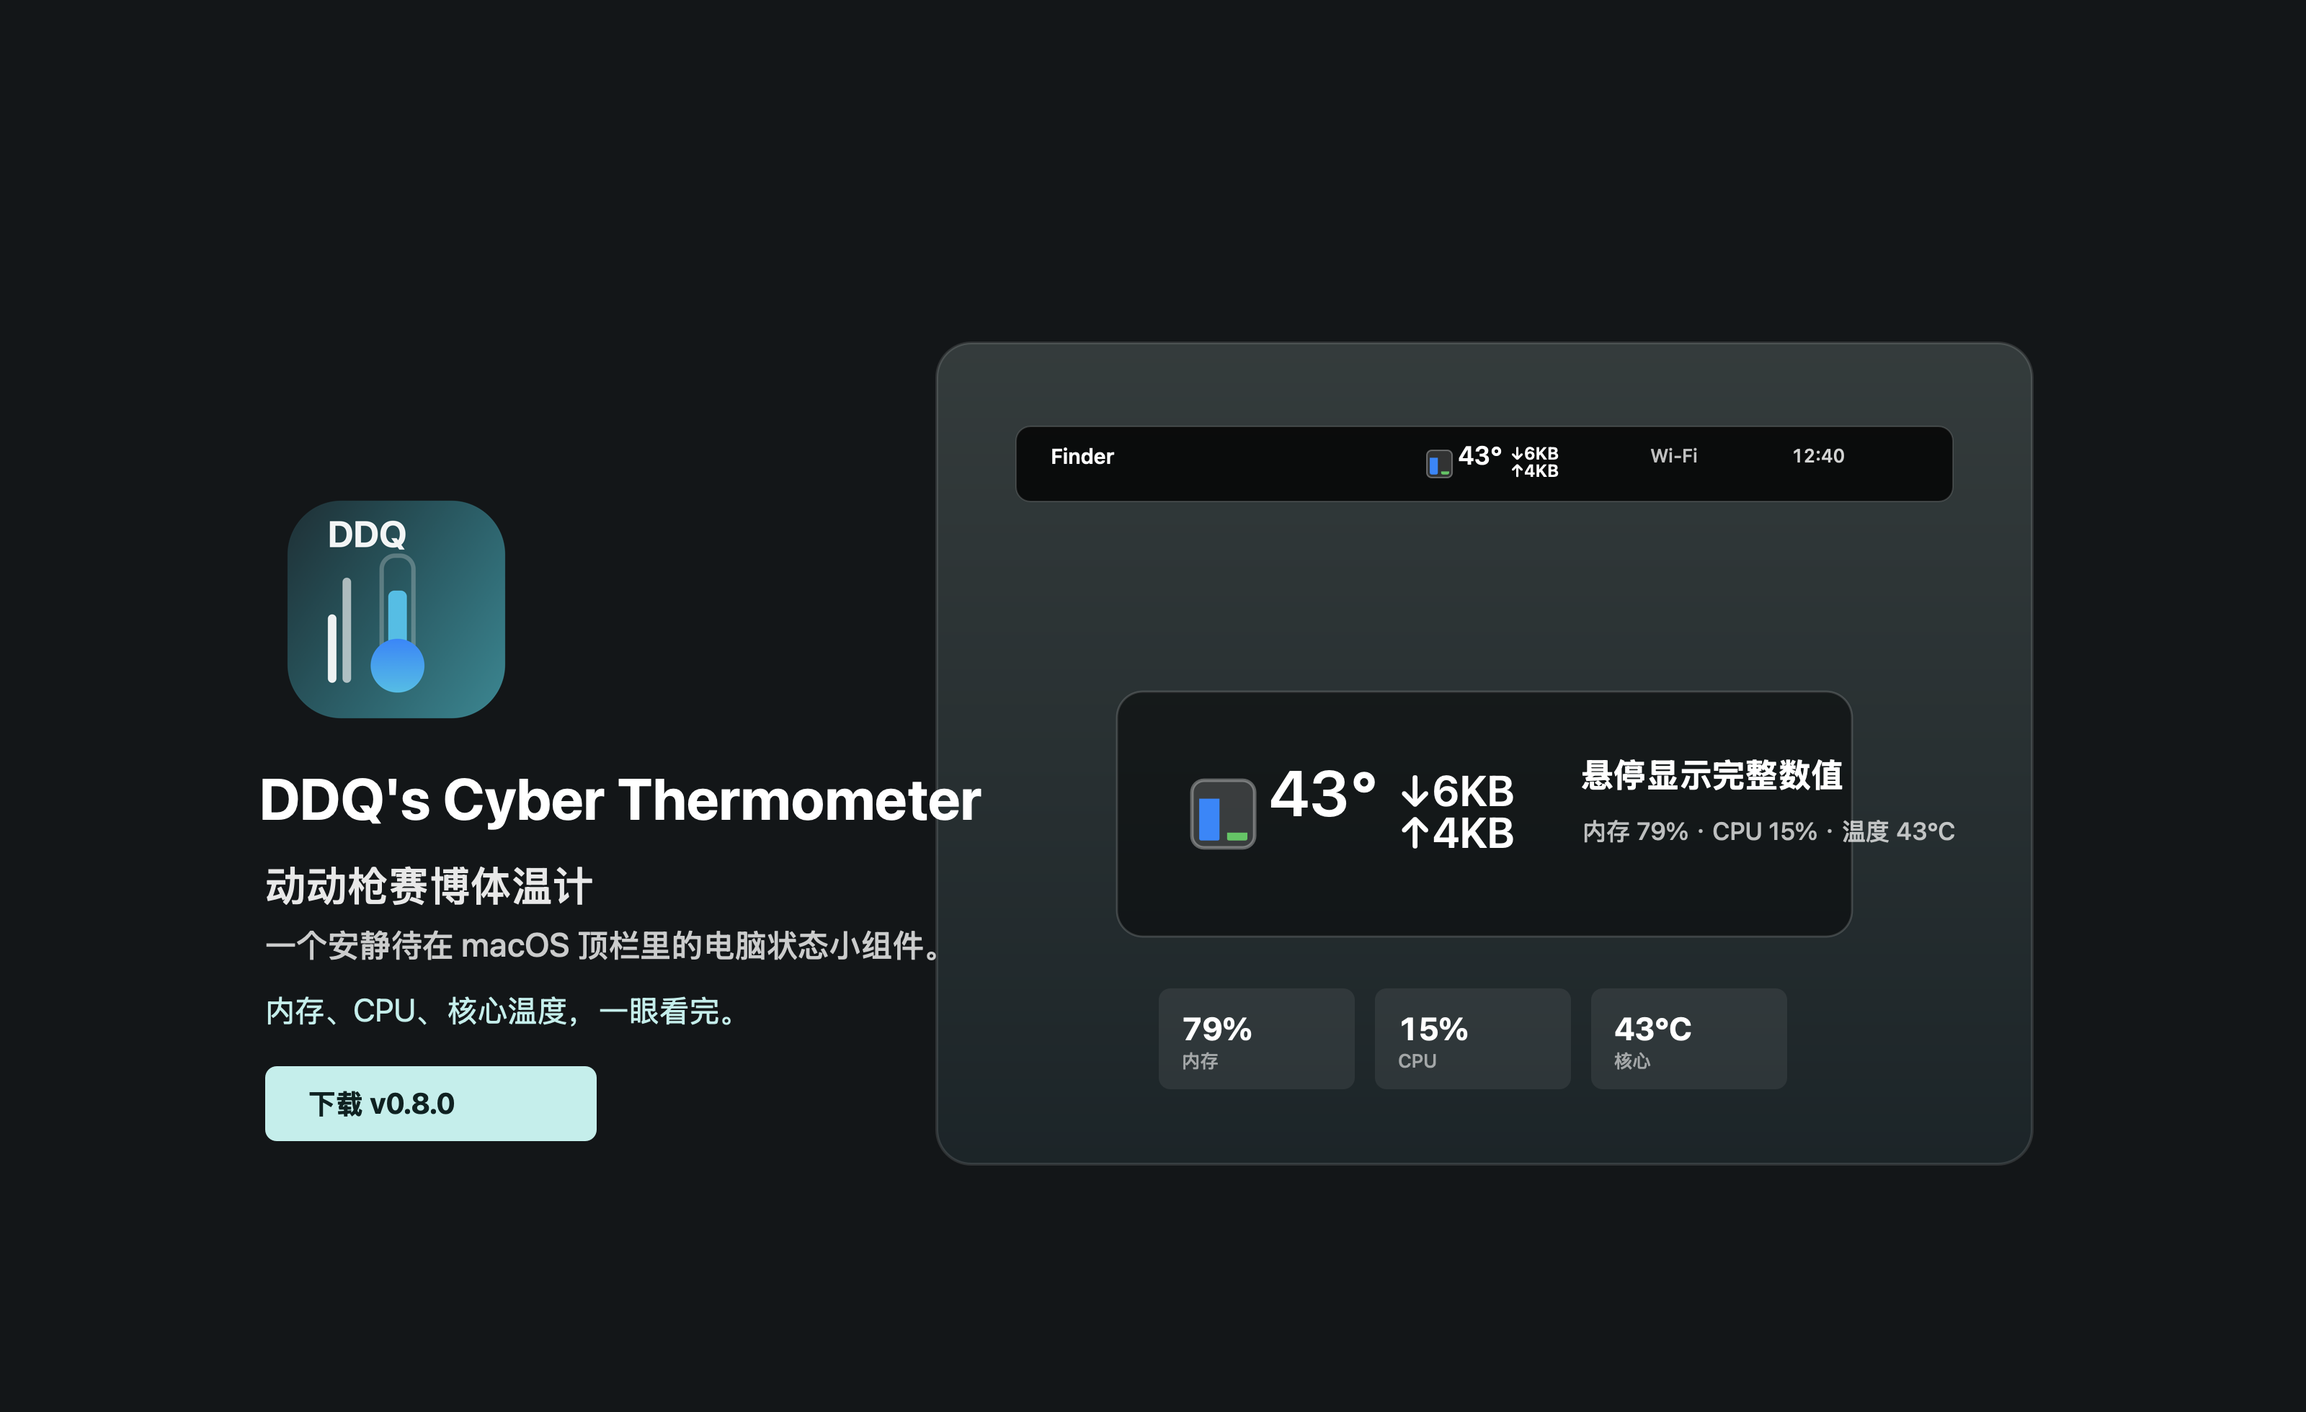
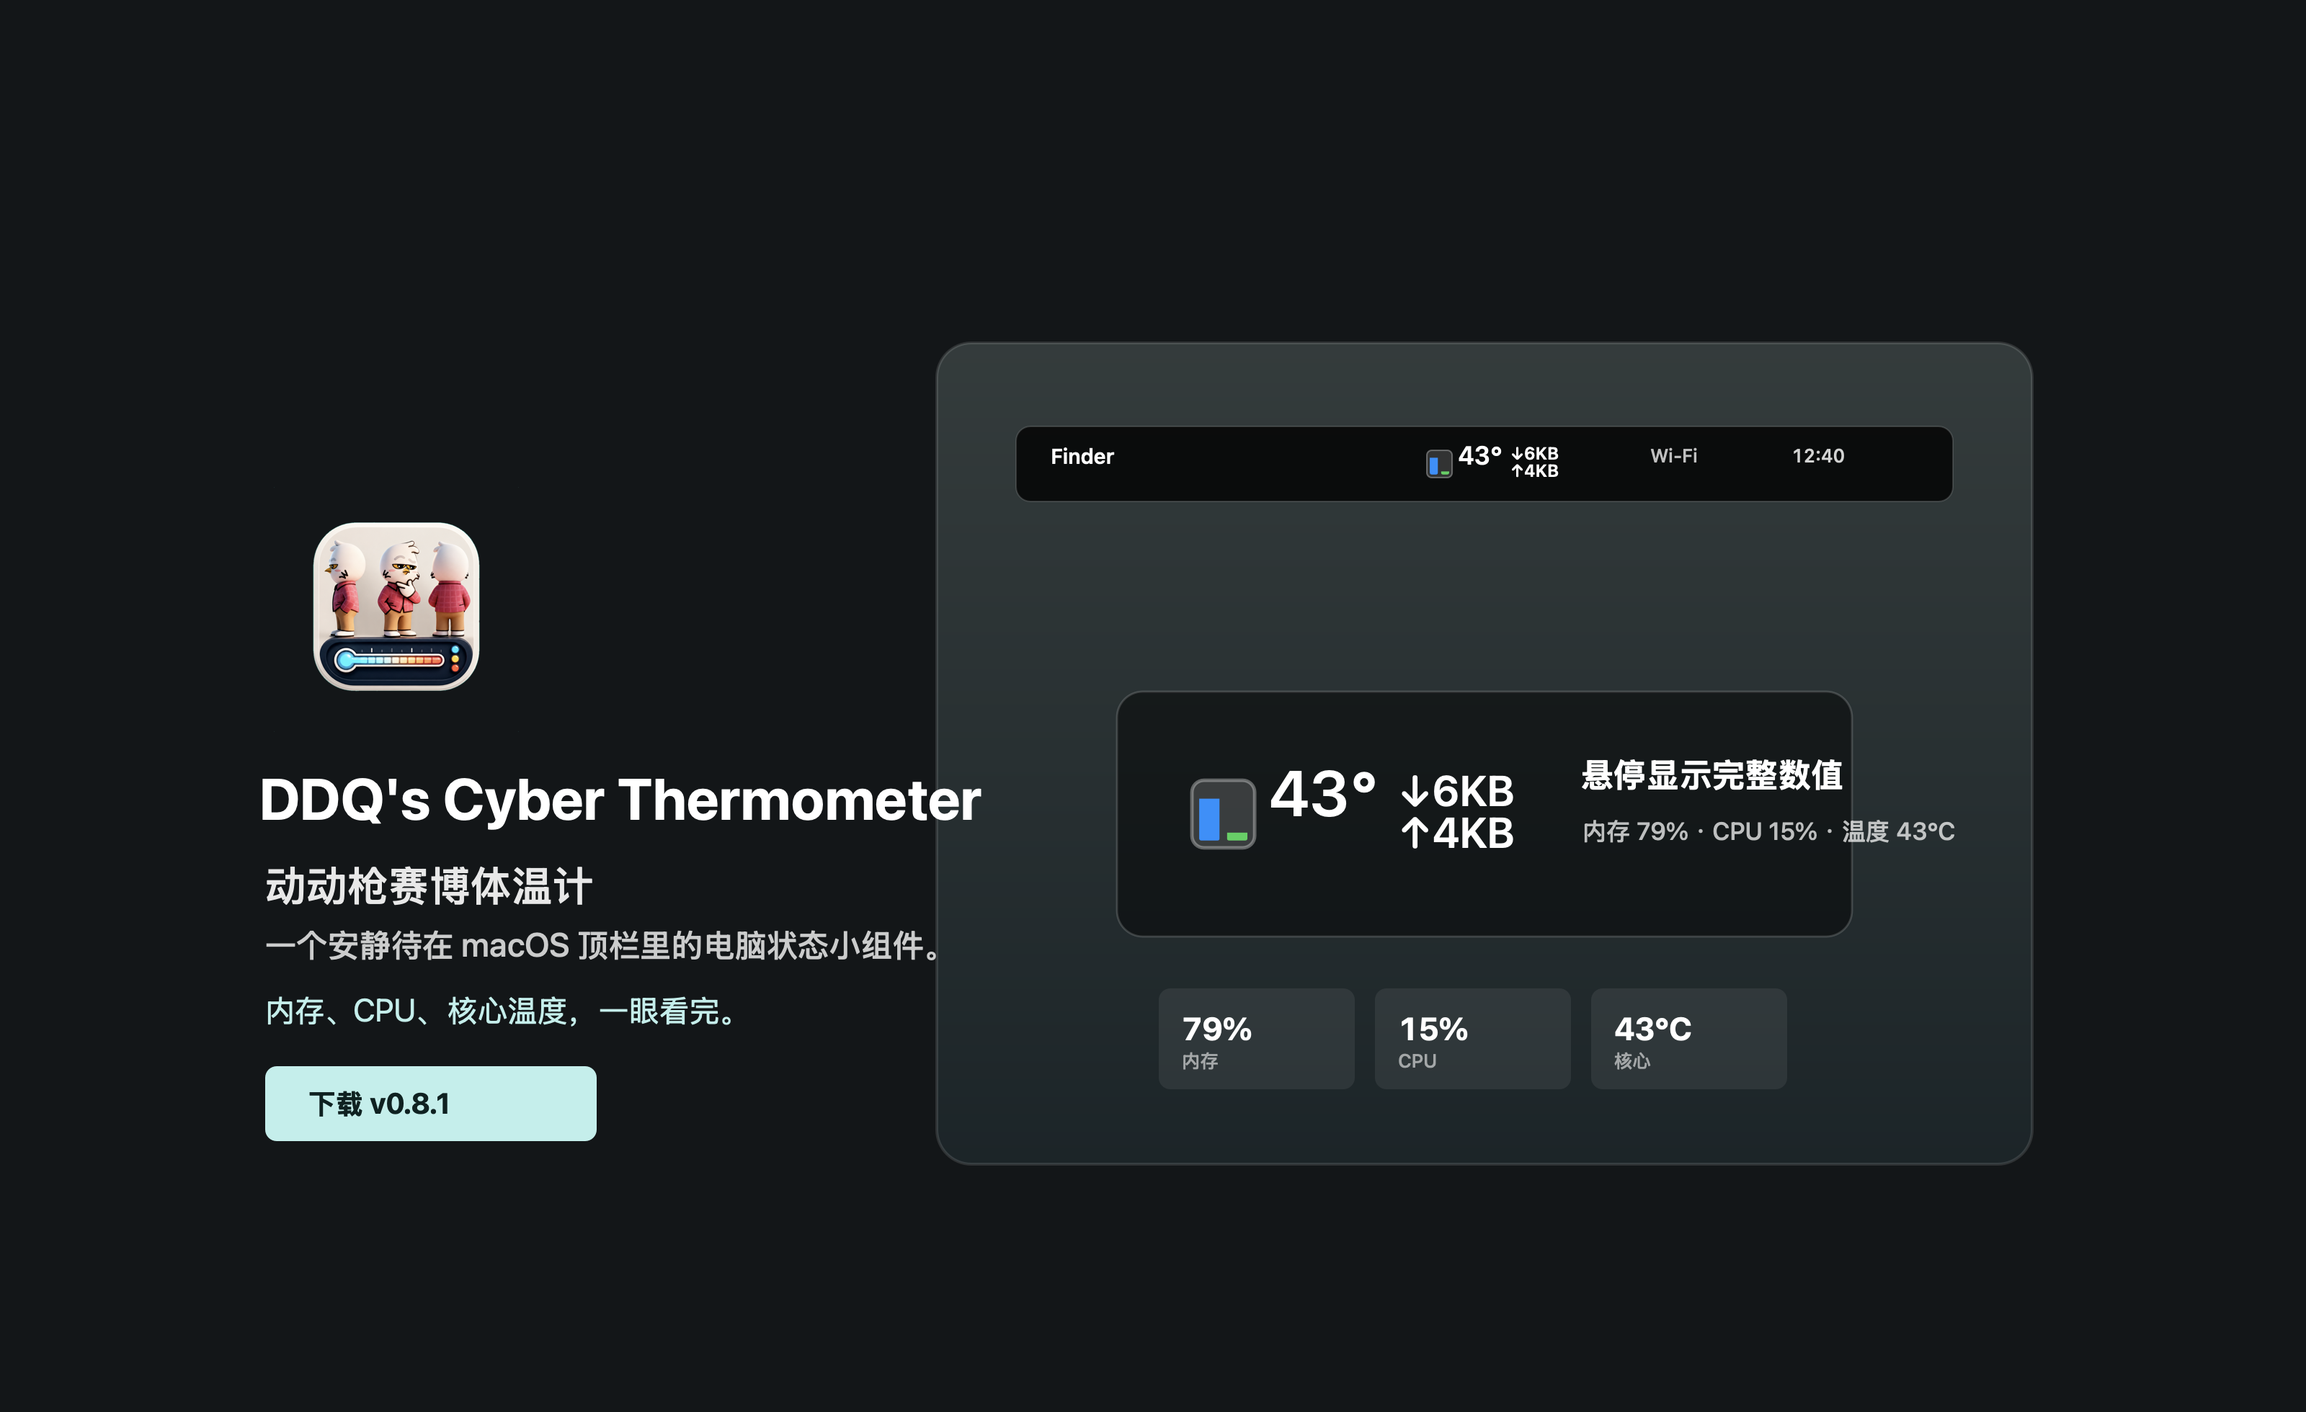
Prepare v0.8.1 release

Changed region(s): [[0.125, 0.3423, 0.2188, 0.5291]]

diff --git a/Scripts/generate-icon.swift b/Scripts/generate-icon.swift
@@ -1,15 +1,25 @@
 import AppKit
 import Foundation
 
-guard CommandLine.arguments.count == 2 else {
-    FileHandle.standardError.write(Data("Usage: generate-icon.swift <output.iconset>\n".utf8))
+guard CommandLine.arguments.count == 3 else {
+    FileHandle.standardError.write(Data("Usage: generate-icon.swift <source.png> <output.iconset>\n".utf8))
     exit(64)
 }
 
-let outputURL = URL(fileURLWithPath: CommandLine.arguments[1])
+let sourceURL = URL(fileURLWithPath: CommandLine.arguments[1])
+let outputURL = URL(fileURLWithPath: CommandLine.arguments[2])
 let fileManager = FileManager.default
 try? fileManager.removeItem(at: outputURL)
 try fileManager.createDirectory(at: outputURL, withIntermediateDirectories: true)
+
+guard let sourceImage = NSImage(contentsOf: sourceURL),
+      sourceImage.isValid,
+      sourceImage.size.width > 0,
+      sourceImage.size.height > 0
+else {
+    FileHandle.standardError.write(Data("Could not read icon source: \(sourceURL.path)\n".utf8))
+    exit(66)
+}
 
 let variants: [(name: String, pixels: Int)] = [
     ("icon_16x16.png", 16),
@@ -25,90 +35,61 @@ let variants: [(name: String, pixels: Int)] = [
 ]
 
 for variant in variants {
-    let data = renderIcon(pixelSize: variant.pixels)
+    let data = renderIcon(sourceImage: sourceImage, pixelSize: variant.pixels)
     try data.write(to: outputURL.appendingPathComponent(variant.name))
 }
 
-func renderIcon(pixelSize: Int) -> Data {
+func renderIcon(sourceImage: NSImage, pixelSize: Int) -> Data {
     let size = CGFloat(pixelSize)
     let rect = NSRect(x: 0, y: 0, width: size, height: size)
-    let image = NSImage(size: rect.size)
+    guard let bitmap = NSBitmapImageRep(
+        bitmapDataPlanes: nil,
+        pixelsWide: pixelSize,
+        pixelsHigh: pixelSize,
+        bitsPerSample: 8,
+        samplesPerPixel: 4,
+        hasAlpha: true,
+        isPlanar: false,
+        colorSpaceName: .deviceRGB,
+        bytesPerRow: 0,
+        bitsPerPixel: 0
+    ) else {
+        fatalError("Failed to create bitmap for icon size \(pixelSize)")
+    }
 
-    image.lockFocus()
-    NSGraphicsContext.current?.imageInterpolation = .high
+    bitmap.size = rect.size
 
-    let backgroundPath = NSBezierPath(
-        roundedRect: rect.insetBy(dx: size * 0.055, dy: size * 0.055),
-        xRadius: size * 0.22,
-        yRadius: size * 0.22
+    NSGraphicsContext.saveGraphicsState()
+    guard let graphicsContext = NSGraphicsContext(bitmapImageRep: bitmap) else {
+        fatalError("Failed to create graphics context for icon size \(pixelSize)")
+    }
+    NSGraphicsContext.current = graphicsContext
+    graphicsContext.imageInterpolation = .high
+
+    NSColor.clear.setFill()
+    rect.fill()
+
+    let sourceSize = sourceImage.size
+    let scale = min(size / sourceSize.width, size / sourceSize.height)
+    let drawSize = NSSize(width: sourceSize.width * scale, height: sourceSize.height * scale)
+    let drawRect = NSRect(
+        x: (size - drawSize.width) / 2,
+        y: (size - drawSize.height) / 2,
+        width: drawSize.width,
+        height: drawSize.height
     )
-    NSGradient(colors: [
-        NSColor(calibratedRed: 0.08, green: 0.16, blue: 0.18, alpha: 1),
-        NSColor(calibratedRed: 0.07, green: 0.44, blue: 0.48, alpha: 1)
-    ])?.draw(in: backgroundPath, angle: -35)
+    sourceImage.draw(
+        in: drawRect,
+        from: NSRect(origin: .zero, size: sourceImage.size),
+        operation: .sourceOver,
+        fraction: 1
+    )
 
-    drawThermometer(size: size)
-    drawBars(size: size)
-    drawBadge(size: size)
+    NSGraphicsContext.restoreGraphicsState()
 
-    image.unlockFocus()
-
-    guard let tiff = image.tiffRepresentation,
-          let bitmap = NSBitmapImageRep(data: tiff),
-          let png = bitmap.representation(using: .png, properties: [:])
-    else {
+    guard let png = bitmap.representation(using: .png, properties: [:]) else {
         fatalError("Failed to render icon")
     }
 
     return png
-}
-
-func drawThermometer(size: CGFloat) {
-    let stem = NSRect(x: size * 0.44, y: size * 0.26, width: size * 0.13, height: size * 0.46)
-    let stemPath = NSBezierPath(roundedRect: stem, xRadius: size * 0.055, yRadius: size * 0.055)
-    NSColor.white.withAlphaComponent(0.24).setStroke()
-    stemPath.lineWidth = max(1, size * 0.018)
-    stemPath.stroke()
-
-    let fill = NSRect(x: stem.minX + size * 0.027, y: stem.minY + size * 0.032, width: stem.width - size * 0.054, height: stem.height * 0.62)
-    NSColor.systemCyan.setFill()
-    NSBezierPath(roundedRect: fill, xRadius: size * 0.025, yRadius: size * 0.025).fill()
-
-    let bulb = NSRect(x: size * 0.395, y: size * 0.16, width: size * 0.22, height: size * 0.22)
-    NSGradient(colors: [.systemCyan, .systemBlue])?.draw(
-        in: NSBezierPath(ovalIn: bulb),
-        angle: 90
-    )
-}
-
-func drawBars(size: CGFloat) {
-    let barWidth = max(2, size * 0.035)
-    let gap = size * 0.025
-    let bottom = size * 0.2
-    let leftX = size * 0.22
-    let heights = [size * 0.28, size * 0.43]
-
-    for (index, height) in heights.enumerated() {
-        let rect = NSRect(
-            x: leftX + CGFloat(index) * (barWidth + gap),
-            y: bottom,
-            width: barWidth,
-            height: height
-        )
-        NSColor.white.withAlphaComponent(index == 0 ? 0.92 : 0.62).setFill()
-        NSBezierPath(roundedRect: rect, xRadius: barWidth * 0.5, yRadius: barWidth * 0.5).fill()
-    }
-}
-
-func drawBadge(size: CGFloat) {
-    guard size >= 128 else { return }
-
-    let attributes: [NSAttributedString.Key: Any] = [
-        .font: NSFont.systemFont(ofSize: size * 0.15, weight: .bold),
-        .foregroundColor: NSColor.white.withAlphaComponent(0.94)
-    ]
-    "DDQ".draw(
-        in: NSRect(x: size * 0.22, y: size * 0.72, width: size * 0.56, height: size * 0.18),
-        withAttributes: attributes
-    )
 }

diff --git a/Scripts/generate-marketing-assets.swift b/Scripts/generate-marketing-assets.swift
@@ -3,6 +3,7 @@ import Foundation
 
 let root = URL(fileURLWithPath: FileManager.default.currentDirectoryPath)
 let assetsURL = root.appendingPathComponent("docs/assets", isDirectory: true)
+let appIconSourceURL = root.appendingPathComponent("icon.png")
 try FileManager.default.createDirectory(at: assetsURL, withIntermediateDirectories: true)
 
 try renderAppIcon(size: 512)
@@ -13,20 +14,29 @@ try renderWidgetCloseup(size: NSSize(width: 1200, height: 520))
     .write(to: assetsURL.appendingPathComponent("widget-closeup.png"))
 
 func renderAppIcon(size: CGFloat) -> Data {
-    pngData(size: NSSize(width: size, height: size)) { rect in
-        let backgroundPath = NSBezierPath(
-            roundedRect: rect.insetBy(dx: size * 0.055, dy: size * 0.055),
-            xRadius: size * 0.22,
-            yRadius: size * 0.22
-        )
-        NSGradient(colors: [
-            NSColor(calibratedRed: 0.08, green: 0.16, blue: 0.18, alpha: 1),
-            NSColor(calibratedRed: 0.07, green: 0.44, blue: 0.48, alpha: 1)
-        ])?.draw(in: backgroundPath, angle: -35)
+    guard let sourceImage = NSImage(contentsOf: appIconSourceURL) else {
+        fatalError("Missing app icon source: \(appIconSourceURL.path)")
+    }
 
-        drawThermometer(size: size, origin: .zero)
-        drawBars(size: size, origin: .zero)
-        drawBadge(size: size, origin: .zero)
+    return pngData(size: NSSize(width: size, height: size)) { rect in
+        NSColor.clear.setFill()
+        rect.fill()
+
+        let sourceSize = sourceImage.size
+        let scale = min(rect.width / sourceSize.width, rect.height / sourceSize.height)
+        let drawSize = NSSize(width: sourceSize.width * scale, height: sourceSize.height * scale)
+        let drawRect = NSRect(
+            x: rect.midX - drawSize.width / 2,
+            y: rect.midY - drawSize.height / 2,
+            width: drawSize.width,
+            height: drawSize.height
+        )
+        sourceImage.draw(
+            in: drawRect,
+            from: NSRect(origin: .zero, size: sourceImage.size),
+            operation: .sourceOver,
+            fraction: 1
+        )
     }
 }
 
@@ -202,7 +212,7 @@ func drawDownloadPill(in rect: NSRect) {
     let path = NSBezierPath(roundedRect: rect, xRadius: 8, yRadius: 8)
     NSColor(calibratedRed: 0.68, green: 0.93, blue: 0.9, alpha: 1).setFill()
     path.fill()
-    drawText("下载 v0.8.0", in: NSRect(x: rect.minX + 30, y: rect.minY + 14, width: rect.width - 60, height: 24), font: .systemFont(ofSize: 20, weight: .bold), color: NSColor(calibratedRed: 0.04, green: 0.1, blue: 0.1, alpha: 1))
+    drawText("下载 v0.8.1", in: NSRect(x: rect.minX + 30, y: rect.minY + 14, width: rect.width - 60, height: 24), font: .systemFont(ofSize: 20, weight: .bold), color: NSColor(calibratedRed: 0.04, green: 0.1, blue: 0.1, alpha: 1))
 }
 
 func drawThermometer(size: CGFloat, origin: CGPoint) {

diff --git a/docs/index.html b/docs/index.html
@@ -360,7 +360,7 @@
         <h1>DDQ's Cyber Thermometer</h1>
         <p class="lead">动动枪赛博体温计，一个安静待在 macOS 顶栏里的电脑状态小组件。内存、CPU、核心温度、下载和上传速率，一眼看完；点击可打开常用网页、查看风扇转速、开机启动和在线升级。</p>
         <div class="actions">
-          <a class="button primary" data-release-link href="#">下载 v0.8.0</a>
+          <a class="button primary" data-release-link href="#">下载 v0.8.1</a>
           <a class="button secondary" data-source-link href="#">查看源码</a>
         </div>
       </div>
@@ -412,14 +412,14 @@
       <div class="section-inner install">
         <div>
           <h2 class="section-heading">下载 DMG，拖进 Applications。</h2>
-          <p class="section-copy">代码开放，安装包放在 GitHub Release。当前版本是 v0.8.0。</p>
+          <p class="section-copy">代码开放，安装包放在 GitHub Release。当前版本是 v0.8.1。</p>
           <div class="actions">
             <a class="button primary" data-release-link href="#">打开 Release 下载</a>
           </div>
         </div>
         <div>
           <ol class="steps">
-            <li data-step="1"><strong>下载</strong>获取 `DDQs-Cyber-Thermometer-0.8.0.dmg`。</li>
+            <li data-step="1"><strong>下载</strong>获取 `DDQs-Cyber-Thermometer-0.8.1.dmg`。</li>
             <li data-step="2"><strong>安装</strong>打开 DMG，把 App 拖到 Applications。</li>
             <li data-step="3"><strong>运行</strong>打开后它会出现在顶栏，不显示 Dock 图标。</li>
           </ol>
@@ -431,7 +431,7 @@
 
   <footer>
     <div class="footer-inner">
-      <span>MIT License · v0.8.0</span>
+      <span>MIT License · v0.8.1</span>
       <a data-source-link href="#">GitHub</a>
     </div>
   </footer>

diff --git a/docs/design/project-structure.md b/docs/design/project-structure.md
@@ -81,7 +81,7 @@ Swift Package 配置。当前定义：
 
 ### `Info.plist`
 
-App Bundle 元信息。当前 bundle 标识为 `com.dongdongqiang.cyber-thermometer`，展示名为“动动枪赛博体温计”，版本为 `0.8.0`。`LSUIElement` 为 `true`，表示 App 作为菜单栏应用运行，不显示 Dock 图标。
+App Bundle 元信息。当前 bundle 标识为 `com.dongdongqiang.cyber-thermometer`，展示名为“动动枪赛博体温计”，版本为 `0.8.1`。`LSUIElement` 为 `true`，表示 App 作为菜单栏应用运行，不显示 Dock 图标。
 
 ### `Sources/MacHealthGuardian/`
 
@@ -110,10 +110,10 @@ Core target，负责可复用、可测试的核心逻辑：
 
 构建、打包、发布和素材生成脚本：
 
-- `build-app.sh`：执行 release 构建，生成 `.app` 目录，生成并写入图标，进行本地临时代码签名。
+- `build-app.sh`：执行 release 构建，生成 `.app` 目录，从 `icon.png` 生成并写入图标，进行本地临时代码签名。
 - `package-dmg.sh`：调用构建脚本，生成 DMG、`.app.zip` 和对应 SHA256 文件。
 - `publish-github.sh`：使用 GitHub CLI 推送代码、标签和 Release 资产，并尝试启用 GitHub Pages。
-- `generate-icon.swift`：生成 App iconset 和 icns 所需的 PNG 图标。
+- `generate-icon.swift`：从 `icon.png` 生成 App iconset 和 icns 所需的 PNG 图标。
 - `generate-marketing-assets.swift`：生成介绍页使用的宣传图与展示图。
 
 ### `docs/`
@@ -127,7 +127,7 @@ Core target，负责可复用、可测试的核心逻辑：
 ### `README.md` 与 `RELEASE_NOTES.md`
 
 - `README.md`：面向使用者和维护者的项目说明，包含下载、功能、打包、温度/风扇说明、在线升级和发布方式。
-- `RELEASE_NOTES.md`：当前版本发布说明，描述 v0.8.0 的功能和安装信息。
+- `RELEASE_NOTES.md`：当前版本发布说明，描述 v0.8.1 的功能和安装信息。
 
 ## 当前代码组织特点
 

diff --git a/RELEASE_NOTES.md b/RELEASE_NOTES.md
@@ -1,12 +1,15 @@
-# DDQ's Cyber Thermometer v0.8.0
+# DDQ's Cyber Thermometer v0.8.1
 
 中文名：动动枪赛博体温计
 
-本版本新增菜单顶部快捷网页入口，适合把常看的控制台、统计页或内部工具放进状态栏，一点就用默认浏览器打开。
+本版本替换应用图标为新的“动动枪赛博体温计”形象，并保持状态栏顶部实时指标小组件不变。
 
 ## 功能
 
 - 顶栏融合小组件：迷你柱显示内存压力、内存和 CPU，右侧显示核心温度。
+- 替换 `.app`、DMG 和 zip 更新包里的应用图标。
+- 应用图标源图改为项目根目录的 `icon.png`，后续打包会自动生成标准 macOS `AppIcon.icns`。
+- 介绍页主视觉和页面 app 图标同步使用新图标。
 - 点击菜单顶部提供 3 个快捷网页入口。
 - 默认快捷入口为“雪鸡号池用量”，链接 `https://ddq.stats.trytrythisai.com/`。
 - 空入口可直接点击添加名称和链接。
@@ -39,8 +42,8 @@
 
 ## 安装
 
-下载 `DDQs-Cyber-Thermometer-0.8.0.dmg`，打开后把 `动动枪赛博体温计.app` 拖到 Applications。
+下载 `DDQs-Cyber-Thermometer-0.8.1.dmg`，打开后把 `动动枪赛博体温计.app` 拖到 Applications。
 
-Release 同时提供 `DDQs-Cyber-Thermometer-0.8.0.app.zip`，供 App 内在线升级优先使用。
+Release 同时提供 `DDQs-Cyber-Thermometer-0.8.1.app.zip`，供 App 内在线升级优先使用。
 
 当前安装包为本地临时签名，未做 Apple Developer ID 公证。首次打开时如遇到系统拦截，可右键 App 选择“打开”，或在“系统设置 > 隐私与安全性”中允许打开。
